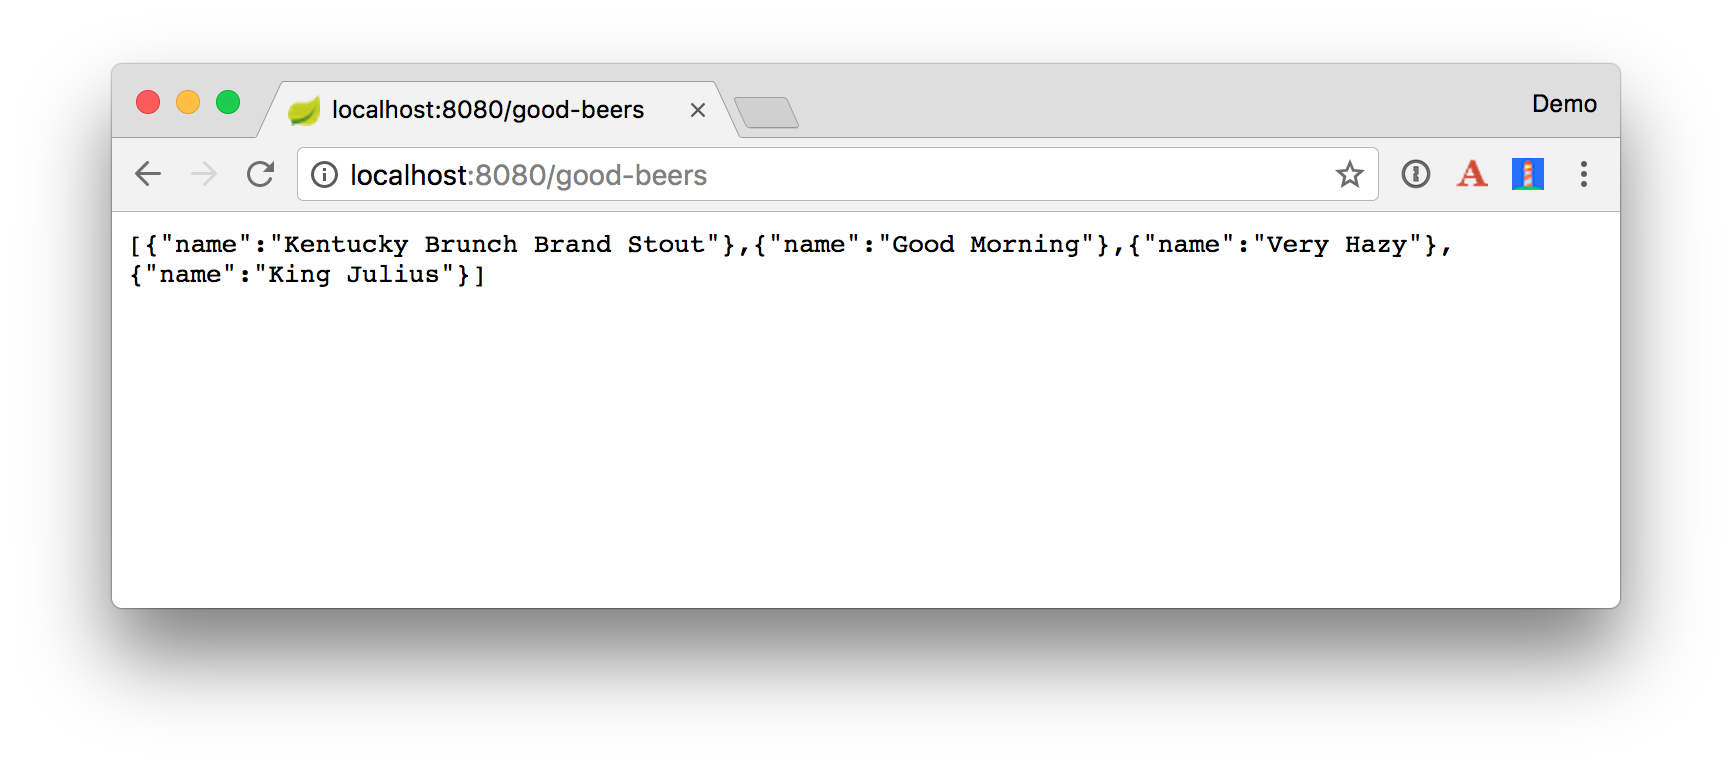
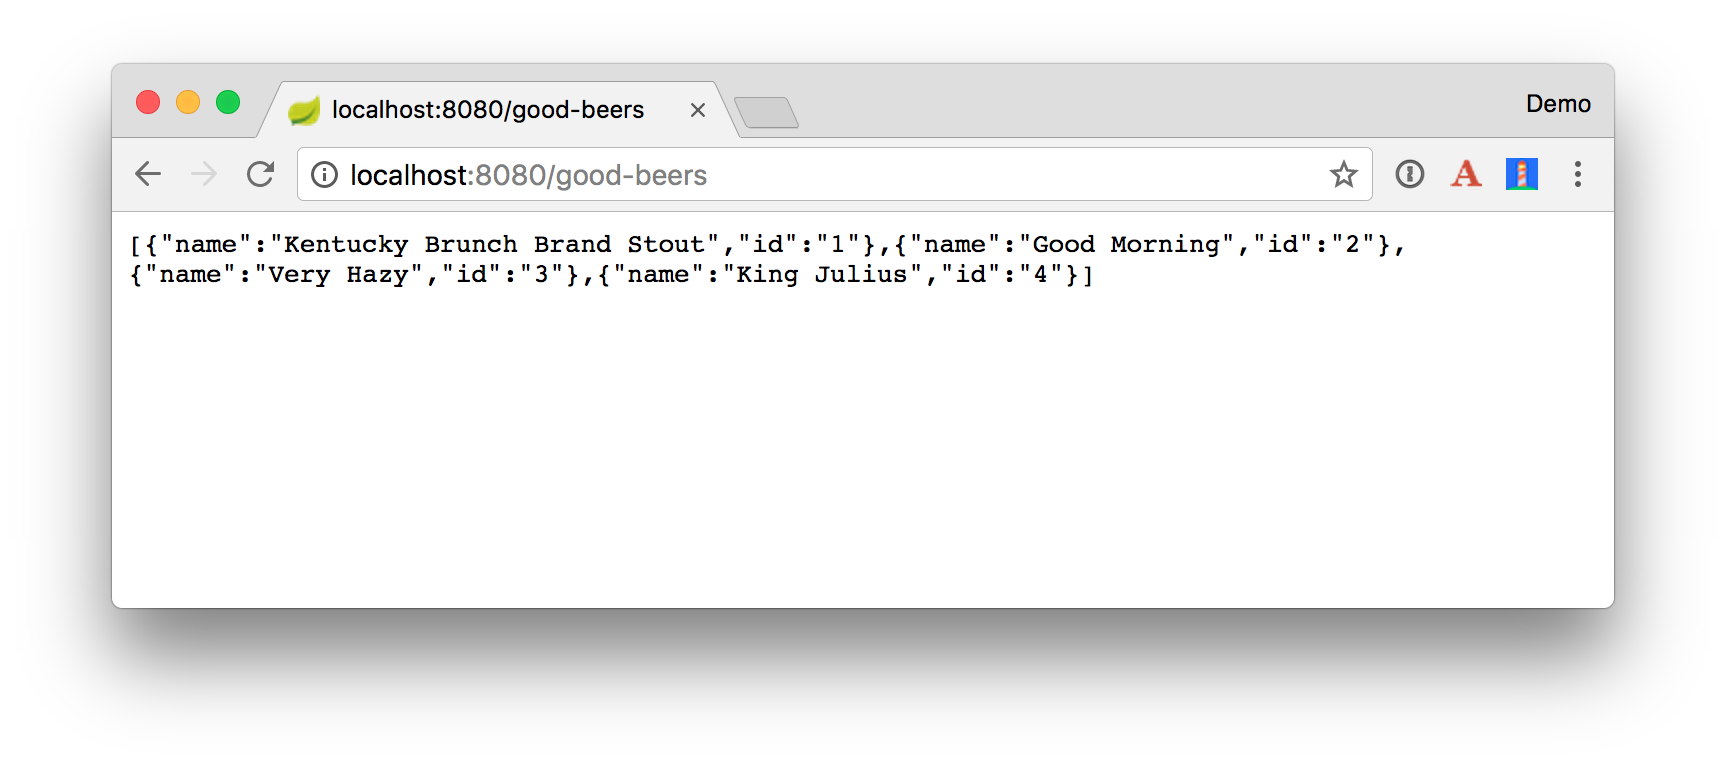
Add id for future tutorial

diff --git a/server/src/main/java/com/example/beer/BeerController.java b/server/src/main/java/com/example/beer/BeerController.java
@@ -25,6 +25,7 @@ public class BeerController {
                 .filter(this::isGreat)
                 .map(b -> {
                     Map<String, String> m = new HashMap<>();
+                    m.put("id", b.getId().toString());
                     m.put("name", b.getName());
                     return m;
                 }).collect(Collectors.toList());

diff --git a/TUTORIAL.md b/TUTORIAL.md
@@ -162,6 +162,7 @@ public class BeerController {
                 .filter(this::isGreat)
                 .map(b -> {
                     Map<String, String> m = new HashMap<>();
+                    m.put("id", b.getId().toString());
                     m.put("name", b.getName());
                     return m;
                 }).collect(Collectors.toList());
